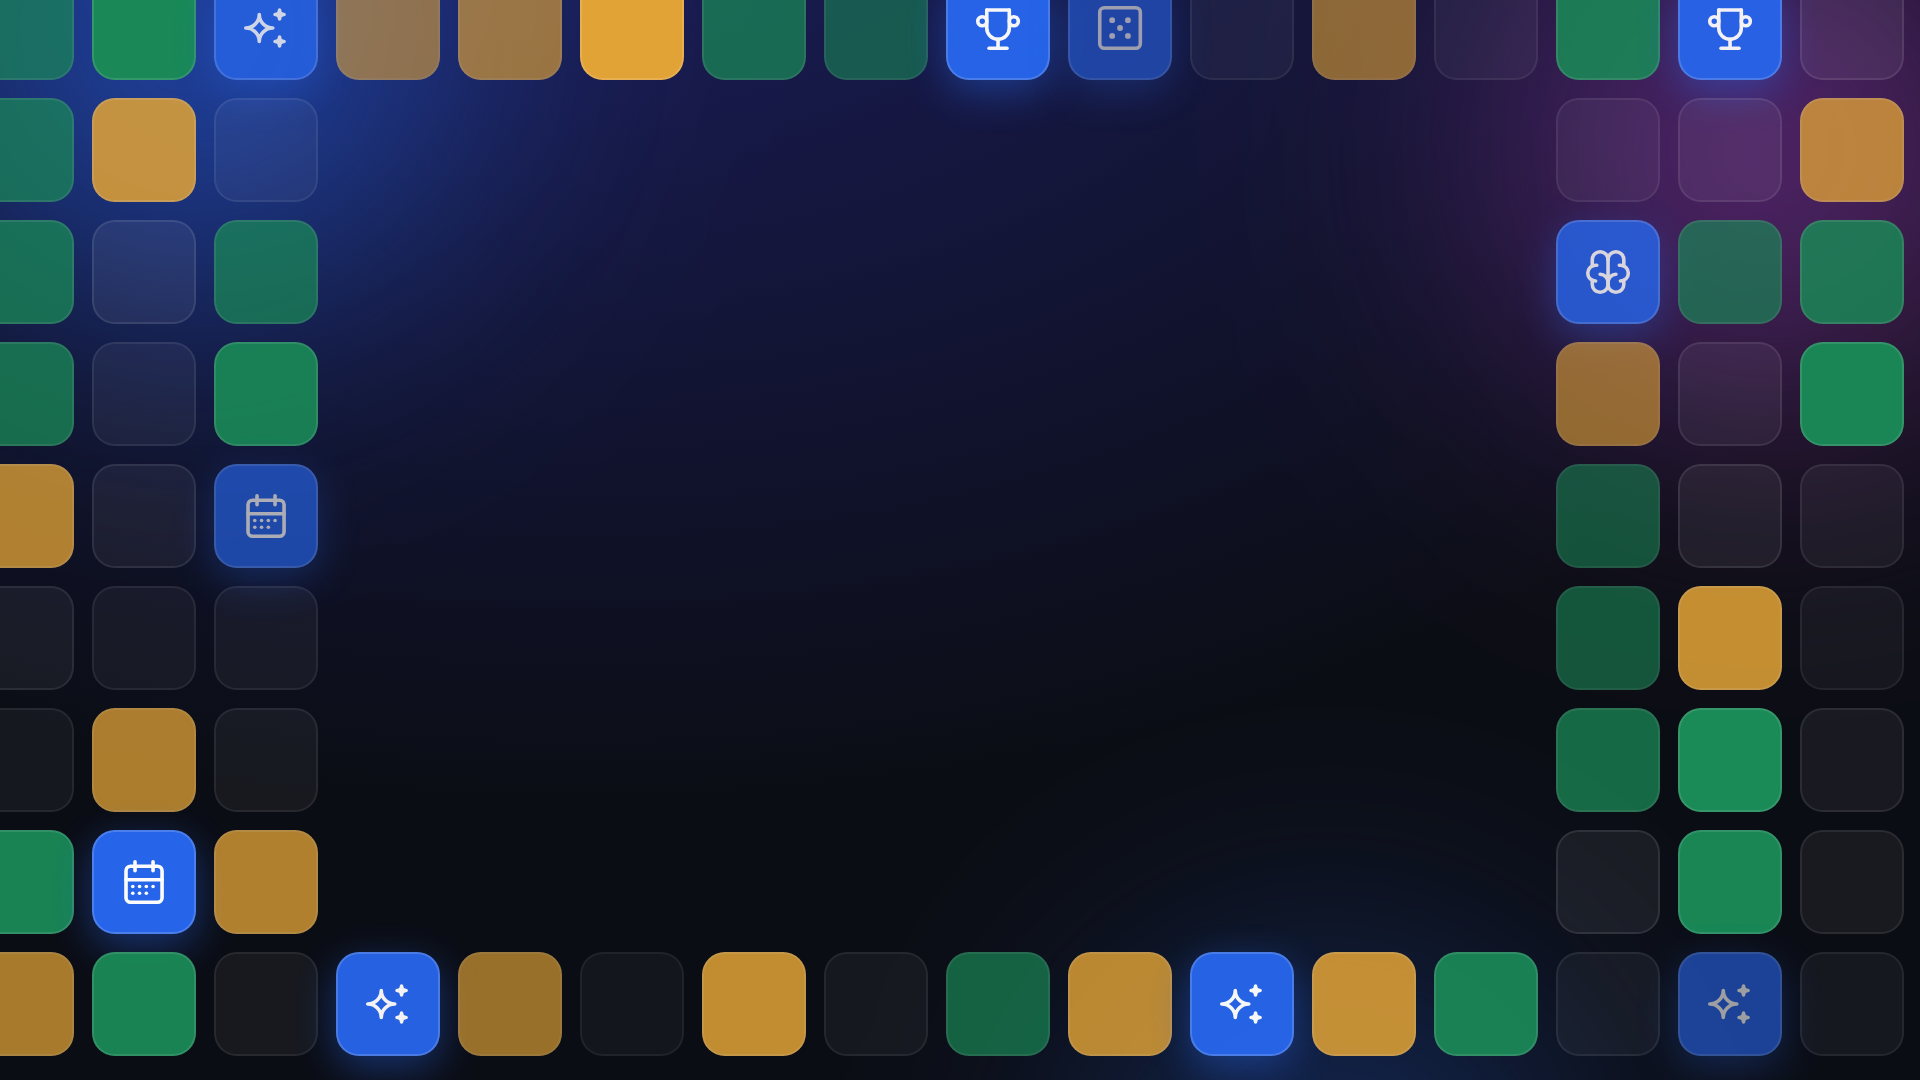
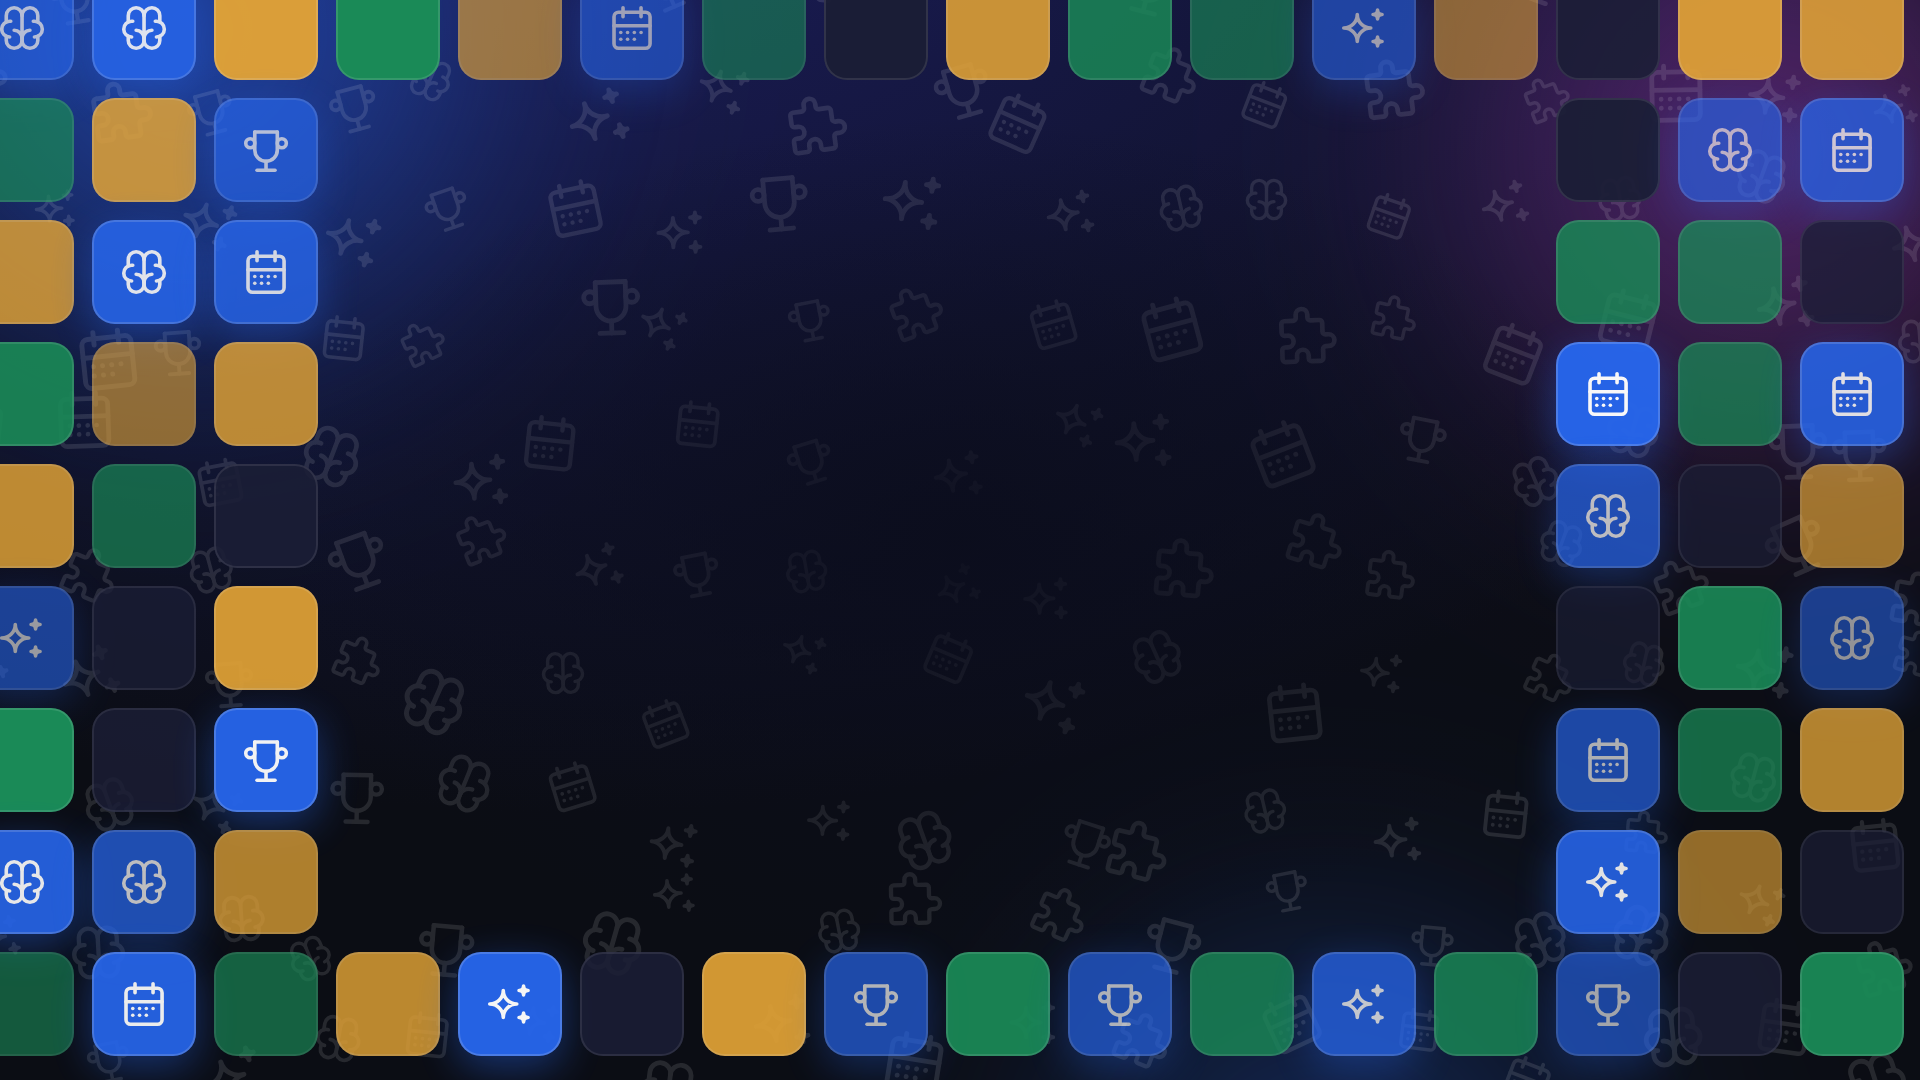
feat(discord): Tabler glyph field on the Activity's navy surfaces and launcher art
Adds an "originals" art category (puzzle, calendar, brain, trophy, sparkles)
to IconField; the band, sign-in/error/outside screens and corner window wear
it, the corner window shows the open game's glyph, and the launcher art gets
the same field, veiled behind the type, with more glyph tiles.

diff --git a/src/components/activity/ActivityApp.tsx b/src/components/activity/ActivityApp.tsx
@@ -29,11 +29,18 @@ import { DailyShuffle } from "@/components/originals/DailyShuffle";
 import { WeeklyChallenge } from "@/components/originals/WeeklyChallenge";
 import { ChatBrainAsk } from "@/components/chatbrain/ChatBrainAsk";
 import { OriginalsHostProvider, type OriginalsHost } from "@/components/originals/OriginalsHost";
+import { IconField } from "@/components/events/EventHeaderArt";
 import { SITE_URL } from "@/lib/seo";
 
 type TabId = "daily" | "weekly" | "brain";
 const TAB_IDS: TabId[] = ["daily", "weekly", "brain"];
 const TAB_NAMES: Record<TabId, string> = { daily: "The Daily", weekly: "The Weekly", brain: "Chat Brain" };
+const TAB_GLYPHS: Record<TabId, typeof IconPuzzle> = { daily: IconPuzzle, weekly: IconCalendarWeek, brain: IconBrain };
+
+/** The site's drifting Tabler glyph field (as on its hero bands), for every navy surface here. */
+function Field({ seed, opacity = 0.12 }: { seed: string; opacity?: number }) {
+  return <IconField category="originals" seed={seed} opacity={opacity} className="gs-activity__field" />;
+}
 const asTab = (x: string | null | undefined): TabId | null => (TAB_IDS.includes(x as TabId) ? (x as TabId) : null);
 
 interface Player { id: string; name: string; avatar: string | null; linked: boolean }
@@ -154,6 +161,7 @@ export function ActivityApp({ clientId }: { clientId: string | null }) {
   if (phase.kind !== "ready" || !host) {
     return (
       <main className="gs-activity gs-activity--center">
+        <Field seed="activity-start" opacity={0.09} />
         <Card variant="outlined" padding="large" className="gs-activity__card">
           {/* eslint-disable-next-line @next/next/no-img-element -- small local SVG */}
           <img src="/images/fg/logos/gameshuffle-primary.svg" alt="GameShuffle" className="gs-activity__logo" width={180} height={32} />
@@ -172,11 +180,14 @@ export function ActivityApp({ clientId }: { clientId: string | null }) {
 
   const { player } = phase;
   const avatar = avatarUrl(player);
+  const PipGlyph = TAB_GLYPHS[tab];
   return (
     <OriginalsHostProvider host={host}>
       <div className="gs-activity">
         {/* Discord's corner window (picture in picture) is too small to play in: just say what's open. */}
         <div className="gs-activity__pip">
+          <Field seed="activity-corner" opacity={0.14} />
+          <span className="gs-activity__pip-glyph" aria-hidden><PipGlyph size={30} stroke={1.75} /></span>
           {/* eslint-disable-next-line @next/next/no-img-element -- small local SVG */}
           <img src="/images/fg/logos/gameshuffle-wht.svg" alt="GameShuffle" className="gs-activity__logo" width={120} height={21} />
           <span>{TAB_NAMES[tab]}</span>
@@ -184,6 +195,7 @@ export function ActivityApp({ clientId }: { clientId: string | null }) {
         <div className="gs-activity__full">
           {/* The site's brand band: navy aurora, white logo, who's playing. */}
           <header className="gs-activity__band">
+            <Field seed="activity-band" opacity={0.1} />
             <div className="gs-activity__inner gs-activity__bar">
               <h1 className="gs-activity__brand">
                 {/* eslint-disable-next-line @next/next/no-img-element -- small local SVG */}
@@ -245,6 +257,7 @@ function LinkNote({ onOpen }: { onOpen: () => void }) {
 function OutsideDiscord() {
   return (
     <main className="gs-activity gs-activity--center">
+      <Field seed="activity-outside" opacity={0.09} />
       <Card variant="outlined" padding="large" className="gs-activity__card">
         {/* eslint-disable-next-line @next/next/no-img-element -- small local SVG */}
         <img src="/images/fg/logos/gameshuffle-primary.svg" alt="GameShuffle" className="gs-activity__logo" width={180} height={32} />

diff --git a/src/styles/activity.css b/src/styles/activity.css
@@ -49,6 +49,11 @@
 .gs-activity__band::before { top: -24rem; left: -8rem; background: radial-gradient(circle, rgba(39, 102, 236, 0.6), transparent 62%); }
 .gs-activity__band::after { top: -22rem; right: -10rem; background: radial-gradient(circle, rgba(201, 73, 233, 0.38), transparent 62%); }
 
+/* The glyph field (IconField) sits over the glows and under everything else. */
+.gs-activity__field { z-index: 0; }
+.gs-activity__band > :not(.gs-activity__field),
+.gs-activity--center > :not(.gs-activity__field),
+.gs-activity__pip > :not(.gs-activity__field) { position: relative; z-index: 1; }
 .gs-activity__bar { display: flex; align-items: center; justify-content: space-between; gap: var(--spacing-12); min-height: 3.2rem; }
 .gs-activity__brand { margin: 0; line-height: 0; }
 .gs-activity__logo { display: block; height: auto; width: 12.8rem; max-width: 40vw; }
@@ -89,6 +94,7 @@
 
 /* Signing in, errors and "open this in Discord": the band fills the frame, with one card. */
 .gs-activity--center {
+  position: relative; overflow: hidden;
   min-height: 100vh; display: flex; justify-content: center; align-items: center;
   box-sizing: border-box; padding: var(--spacing-16); background: var(--gs-act-band);
 }
@@ -96,11 +102,16 @@
 .gs-activity__card .gs-activity__logo { width: 18rem; }
 .gs-activity__title { font-family: var(--gs-font-display, inherit); font-size: var(--font-size-24); margin: 0; }
 
-/* Discord's corner window: too small to play, so the band, the logo and what's open. */
+/* Discord's corner window: too small to play, so the band, the open game's glyph, the logo and its name. */
+.gs-activity__pip-glyph {
+  display: grid; place-items: center; width: 4.8rem; height: 4.8rem; border-radius: 1.4rem;
+  background: var(--primary-500, #2766ec); color: #fff; box-shadow: 0 8px 28px rgba(39, 102, 236, 0.45);
+}
 .gs-activity__pip { display: none; }
 @media (max-height: 300px) {
   .gs-activity__full { display: none; }
   .gs-activity__pip {
+    position: relative; overflow: hidden;
     display: flex; flex-direction: column; justify-content: center; align-items: center; gap: var(--spacing-8);
     min-height: 100vh; background: var(--gs-act-band); color: #fff;
     font-family: var(--gs-font-display, inherit); font-size: var(--font-size-18);

diff --git a/src/components/events/EventHeaderArt.tsx b/src/components/events/EventHeaderArt.tsx
@@ -92,6 +92,8 @@ const CATEGORIES: Record<ArtCategory, CategoryArt> = {
   /* Chat Brain: the crowd (people, chat) and what it adds up to (a ranked bar chart). */
   brain: { feature: IconBrain, ramp: ["#1b2a6b", "#4b5cf5"],
     glyphs: [IconBrain, IconMessages, IconChartBar, IconUsersGroup, IconBulb] },
+  originals: { feature: IconSparkles, ramp: ["#1b2a6b", "#2766ec"],
+    glyphs: [IconPuzzle, IconCalendarWeek, IconBrain, IconTrophy, IconSparkles] },
   heroes: { feature: IconSword, ramp: ["#14275a", "#2f6fd6"],
     glyphs: [IconShield, IconSword, IconHeart, IconStar, IconTarget] },
   /* The Originals share the violet band; their glyphs say which game it is. */

diff --git a/src/lib/events/artCategory.ts b/src/lib/events/artCategory.ts
@@ -27,7 +27,10 @@ export type ArtCategory =
   /* The Weekly Challenge: trophies, a week on the calendar, a ranked list. */
   | "weekly"
   /* Communities: people, conversations, a home base. */
-  | "community";
+  | "community"
+  /* GameShuffle Originals together (the Discord Activity): the Daily's puzzle,
+     the Weekly's calendar, Chat Brain's brain, a trophy and sparkles. */
+  | "originals";
 
 /** Map an event onto its art family. */
 export function artCategoryFor(type: "tournament" | "game-night", kind?: string | null): ArtCategory {

diff --git a/CLAUDE.md b/CLAUDE.md
@@ -388,7 +388,7 @@ written and must not be scaled.
 - **Data:** Daily results for Discord players live in `daily_identity_results` (identity per day, with the guesses so far so a game resumes; `supabase/discord-activity-m1.sql`), no account needed. `src/lib/daily/results.ts` merges them with `daily_results` for anyone linked (`users.discord_id`): account row wins for a day, first finished result stands, everything re-judged. `/api/daily` and `/api/weekly` now use `dailyView`/`saveAccountResult` and `weeklyView`/`saveWeeklyPlay`. Weekly plays still need a linked account (weekly_entries is per account); Chat Brain answers go to the Discord identity with source `activity`. Sharing uses SDK `shareLink` (custom_id `daily`).
 - **Play buttons:** `src/lib/discord/activityLaunch.ts`: with `DISCORD_ACTIVITY_LIVE=1`, the Weekly card's Play and Chat Brain's "Answer more" (`brainplay`) answer LAUNCH_ACTIVITY (type 12) after noting the game in `discord_activity_intents` (read once by the token route). Leave it off until Discord verifies the app (unverified Activities open only for the team and App Testers in servers under 25 members).
 - **Commands:** `scripts/register-discord-commands.ts` reads the app's commands first and keeps its type-4 entry point (a bulk update without it fails with 50240); `--activity` adds `/launch` (handler 2) if missing.
-- **Brand:** the site's light look with the navy aurora band from the site's heroes across the top (white logo, player pill); the root layout renders the Activity `data-theme="light"`. Signing-in / error / outside-Discord cards sit on the band with the colour logo.
+- **Brand:** the site's light look with the navy aurora band from the site's heroes across the top (white logo, player pill), and every navy surface (band, sign-in/error/outside cards, corner window) carries the site's drifting Tabler glyph field (`IconField` with the `originals` art category: puzzle, calendar-week, brain, trophy, sparkles). The corner window adds the open game's glyph on a blue tile. Launcher art (`scripts/render-discord-activity-art.cjs` → `public/images/discord/`) uses the same five glyphs, veiled behind the type; the root layout renders the Activity `data-theme="light"`. Signing-in / error / outside-Discord cards sit on the band with the colour logo.
 - **Layout:** compact bar, CDS underline Tabs pinned under Discord's top inset (`--discord-safe-area-inset-*`), nothing in a tab may widen the page, and a logo-plus-game view below 300px tall (Discord's corner window). Inside the Activity the Daily and Weekly show an "Answer a Chat Brain question" button (`activity.showTab`) instead of the Chat Brain card. **Dev preview without Discord:** `localhost:3000/discord/activity?preview=linked|guest&tab=daily|weekly|brain` (signs in through `/api/activity/dev-session`, development only).
 - **Testing locally:** `brew install cloudflared`, `DISCORD_ACTIVITY_APP=dev` in `.env.local`, `npm run dev`, `cloudflared tunnel --url http://localhost:3000`, paste the tunnel host into the dev app's URL Mappings (`/`), launch from the App Launcher in a test server. Next: live channel card + daily server summary (Wordle-style), Discord-only Weekly entries, a Daily post with a Play button.
 
